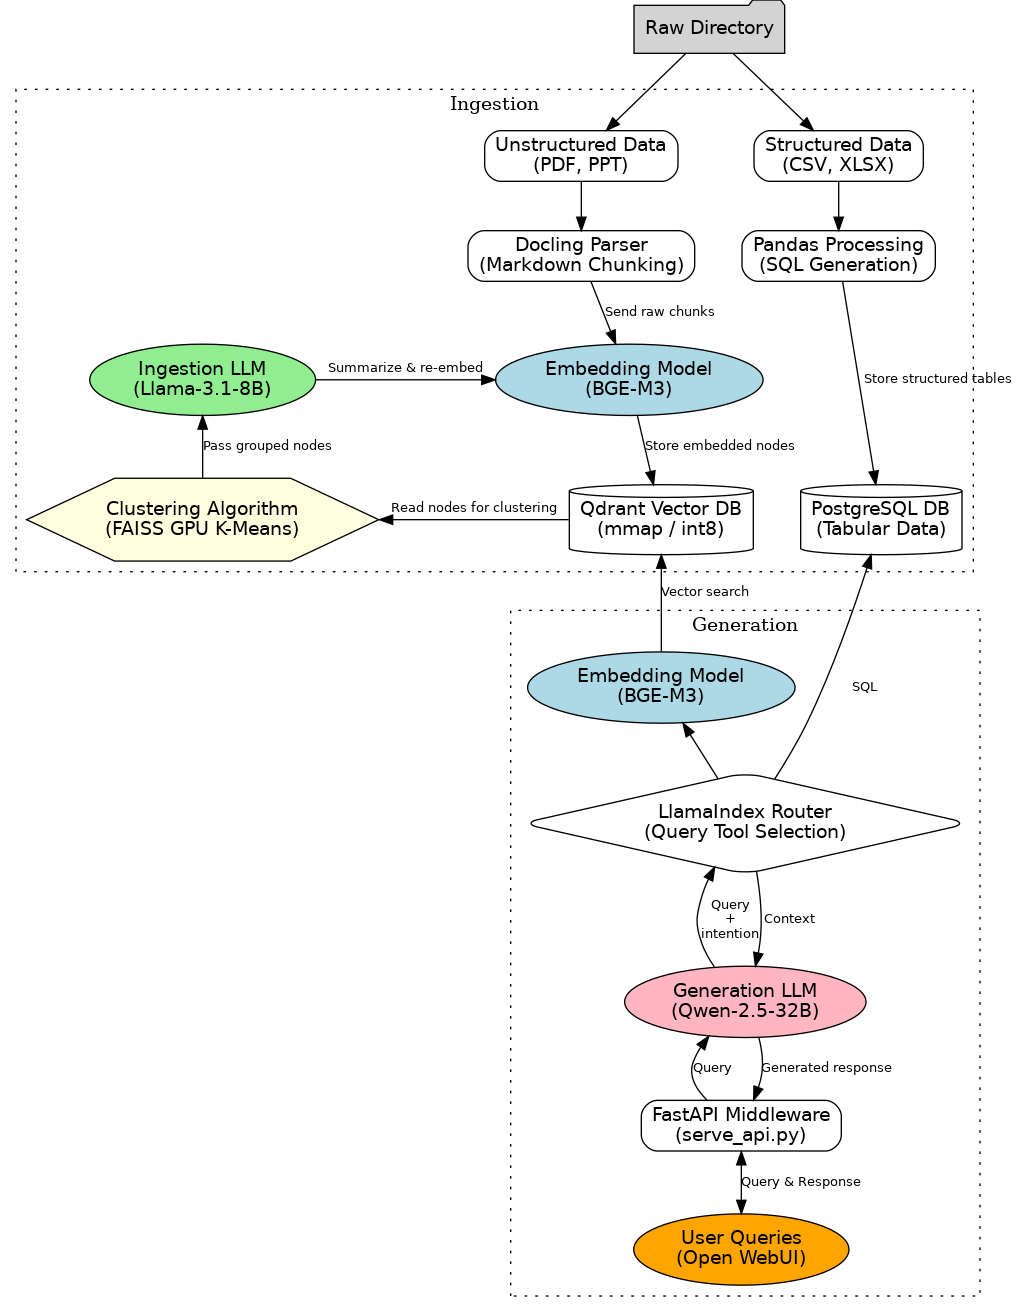
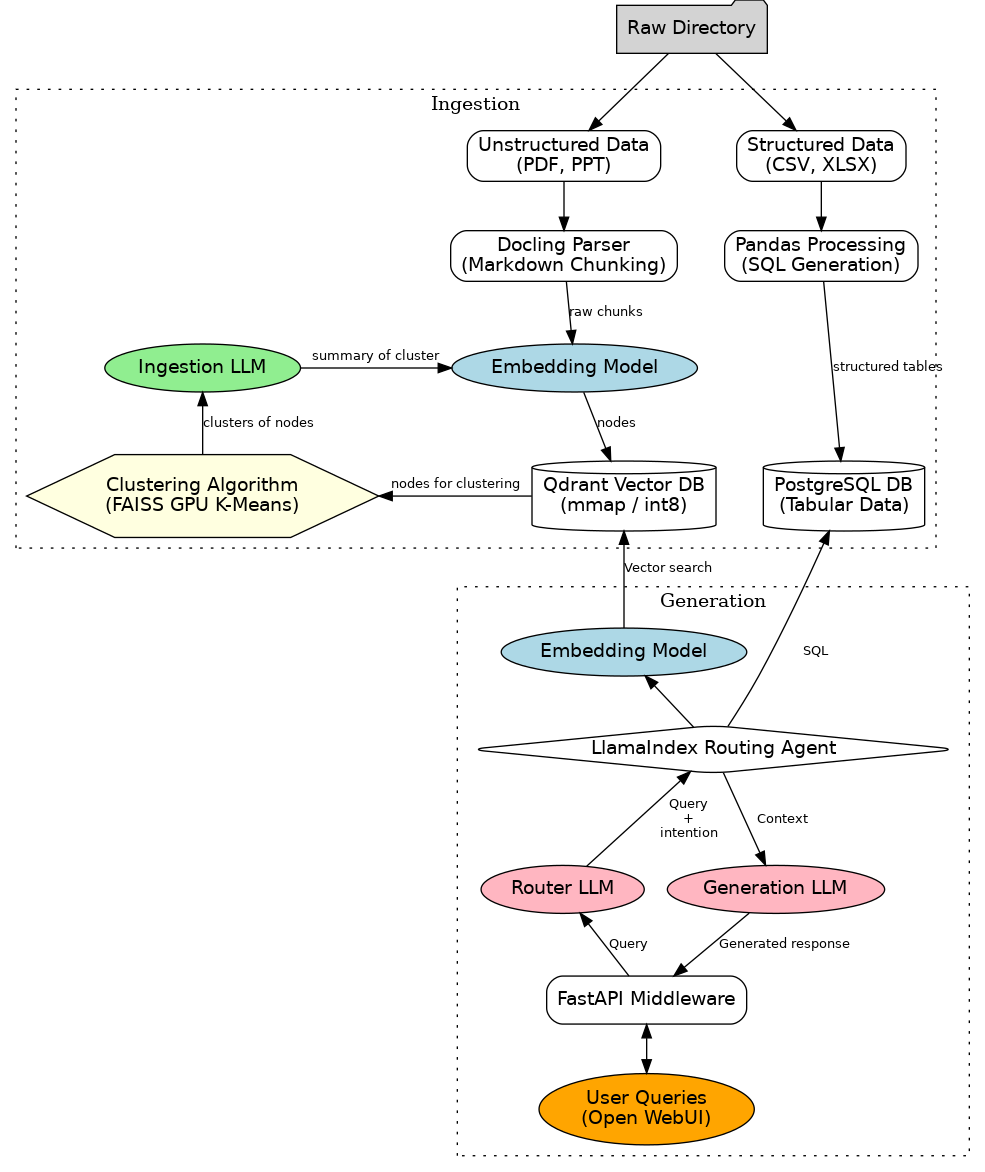
update docs and diagram for router engine and router vs generator llm

Changed region(s): [[0.0305, 0.0, 1.0, 0.9829]]

diff --git a/serving/serve_api.py b/serving/serve_api.py
@@ -48,7 +48,7 @@ router_llm = OpenAILike(
 vector_tool = get_vector_tool(local_llm) # Connects to Qdrant
 sql_tool = get_sql_tool(local_llm)       # Connects to Postgres
 
-# The Orchestrator / Routing Agent
+# The Routing Agent
 router_engine = RouterQueryEngine.from_defaults(
     query_engine_tools=[vector_tool, sql_tool],
     llm=local_llm,
@@ -67,7 +67,7 @@ async def get_models():
         "object": "list",
         "data": [
             {
-                "id": "angol-orchestrator", 
+                "id": "angol-routing-agent",
                 "object": "model",
                 "created": 1700000000,
                 "owned_by": "angol"

diff --git a/README.md b/README.md
@@ -44,7 +44,7 @@ The system utilizes an advanced Retrieval-Augmented Generation (RAG) architectur
 *   **Metadata Tagging:** Every chunk is aggressively tagged with metadata (Author, Date, Department, Page Number, Document ID) to enable accurate citation generation down the pipeline.
 
 ### 2. Chunking & Embedding Layer
-*   **Orchestration:** [LlamaIndex](https://www.llamaindex.ai/) manages chunking and RAG pipelines.
+*   **Pipeline Management:** [LlamaIndex](https://www.llamaindex.ai/) manages chunking and RAG pipelines.
 *   **Chunking Strategy:** Semantic chunking targeting ~1KB of text (roughly 200 tokens) per chunk.
 *   **Embedding Model:** [BAAI BGE-M3](https://huggingface.co/BAAI/bge-m3). Handles massive context windows, supports multi-linguality, and generates dense vectors at 1024 dimensions.
 
@@ -62,27 +62,25 @@ To enable holistic reasoning across the corpus, data is grouped and summarized h
 ### 5. Retrieval & Generation Layer
 *   **Model Serving:** [vLLM](https://github.com/vllm-project/vllm) for high-throughput, memory-efficient LLM serving.
 *   **Reasoning Engine:** [Qwen-2.5-32B-Instruct](https://huggingface.co/Qwen/Qwen2.5-32B-Instruct) or [Meta Llama-3.1-8B-Instruct](https://huggingface.co/meta-llama/Meta-Llama-3.1-8B-Instruct). Selected for high reasoning capabilities within constrained VRAM.
- *   **Routing Agent:** Managed by LlamaIndex (e.g., via a `RouterQueryEngine`). Rather than requiring a separate model, the orchestrator dynamically prompts the primary Reasoning Engine (e.g., Qwen-2.5-32B) to act as a decision-maker. Before executing a search, the LLM is prompted to classify the user's intent, dynamically routing the query to either the Vector Database (for text/conceptual questions) or to a Text-to-SQL Agent (for massive spreadsheet math and structured data).
+*   **Routing Agent:** Managed by LlamaIndex (e.g., via a `RouterQueryEngine`). The Routing Agent  prompts the Routing LLM to act as a decision-maker, to classify the user's intent, and route the query to either the Vector Database (for text/conceptual questions) or to a Text-to-SQL Agent (for massive spreadsheet math and structured data).
 
-**LlamaIndex** acts as the Orchestrator. It acts as the bridge between the user, the Vector DB (Qdrant), and the LLM via a 4-step programmatic workflow:
+**LlamaIndex** acts as the Routing Agent. It acts as the bridge between the user, the Vector DB (Qdrant), and the LLM via a 4-step programmatic workflow:
 
 #### Step 1: Query Vectorization (The translation)
 When a user submits a prompt (e.g., *"Summarize the supply chain risks in Europe for 2023"*):
-1. **Routing:** The Orchestrator determines this is a text-based query, not a math/spreadsheet query.
-2. **Embedding:** The Orchestrator sends the user's raw text prompt to the **BGE-M3** embedding model. 
+1. **Routing:** The Routing Agent determines this is a text-based query, not a math/spreadsheet query.
+2. **Embedding:** The Routing Agent sends the user's raw text prompt to the **BGE-M3** embedding model.
 3. BGE-M3 translates the user's English prompt into a single 1024-dimensional query vector.
 
 #### Step 2: The RAPTOR Database Search (Fetching Context)
-The Orchestrator sends this single query vector to **Qdrant**. 
+The Routing Agent sends this single query vector to **Qdrant**.
 1. **Hybrid Search:** Qdrant performs a hybrid search against the 40 Million vectors in RAM. It looks for both mathematical proximity (HNSW Vector Search) and exact keyword matches (Sparse/BM25 Search).
 2. **Tree Collapse Search:** Because of the RAPTOR architecture, Qdrant searches the *entire* hierarchy simultaneously, from **Level 0 Leaf Nodes** (raw document chunks) to **Level 1, 2 or 3 Summary Nodes** (synthesized overviews).
-3. Qdrant returns the Top 20 results to the Orchestrator. These results are returned as JSON objects containing the **Original Text Payload** and the **Metadata Array** (citations, page numbers, source docs).
+3. Qdrant returns the Top 20 results to the Routing Agent. These results are returned as JSON objects containing the **Original Text Payload** and the **Metadata Array** (citations, page numbers, source docs).
 
 #### Step 3: Context Assembly (The Handoff to Reasoning / Generation LLM)
 
-The Orchestrator takes the Top 20 text payloads retrieved from Qdrant and injects them into a strict **System Prompt Template**  in the Reasomning LLM (Qwen)'s context window.
-
-The payload sent to Qwen via **vLLM** looks exactly like this:
+The Routing Agent takes the Top 20 text payloads retrieved from Qdrant and injects them into a strict **System Prompt Template** in the Generation LLM's context window, via **vLLM** as follows:
 
 ```text
 <|im_start|>system
@@ -105,11 +103,11 @@ Summarize the supply chain risks in Europe for 2023.
 ```
 
 #### Step 4: Generation and Citation
-1. **Inference:** **Qwen-2.5-32B** reads the fully assembled prompt. Because it is an Instruction-Tuned model (`-Instruct`), it strictly obeys the system prompt.
+1. **Inference:** The Generation LLM reads the fully assembled prompt. Because it is an Instruction-Tuned model (`-Instruct`), it strictly obeys the system prompt.
 2. **Synthesis:** It evaluates the competing facts in the provided context (understanding that Level 2 nodes are high-level summaries and Level 0 nodes are granular facts).
 3. **Output:** It streams the final text back to the User Interface, explicitly injecting the citations provided by Qdrant's metadata (e.g., *"Supply chain risks increased by 14% [Report_2023.pdf, Page 42], however, automation offset these delays [Multi-Doc Summary Node]."*). 
 
-**Summary of the Interaction:** The Vector Database acts purely as an ultra-fast semantic filter. The LLM acts purely as a reasoning and reading engine. The Orchestrator (LlamaIndex) facilitates the handoff by wrapping the database's text results into a prompt that the LLM can read.
+**Summary of the Interaction:** The Vector Database acts purely as an ultra-fast semantic filter. The Generation LLM acts purely as a reasoning and reading engine. The Routing Agent (LlamaIndex) facilitates the handoff by wrapping the database's text results into a prompt that the LLM can read.
 
 
 ### 6. User Interface
@@ -146,3 +144,4 @@ Tailored for the hardware constraints of an NVIDIA DGX Spark with 128GB System R
 ## Notes
 *   **Citations:** To guarantee accurate citations, the chunking mechanism *must* append metadata arrays to every RAPTOR summary node. When the LLM references a Level 2 summary, the UI will parse the metadata array to show the user the 10,000 original documents that informed that node.
 *   **Security:** All weights (BGE-M3, Llama/Qwen, OCR models) and software (vLLM, Qdrant) are open-source/open-weight and run entirely locally. The system requires zero external API calls, satisfying strict air-gapped compliance requirements.
+*   **Single LLM Instance Serving:** While the design logically separates the "Routing LLM" and "Generation LLM" based on their distinct tasks, in practical implementation, memory constraints dictate that a single LLM instance (e.g., Qwen-2.5-32B hosted via vLLM) serves both roles sequentially. The Routing Agent achieves this by sending distinct system prompts and adjusting generation parameters.
